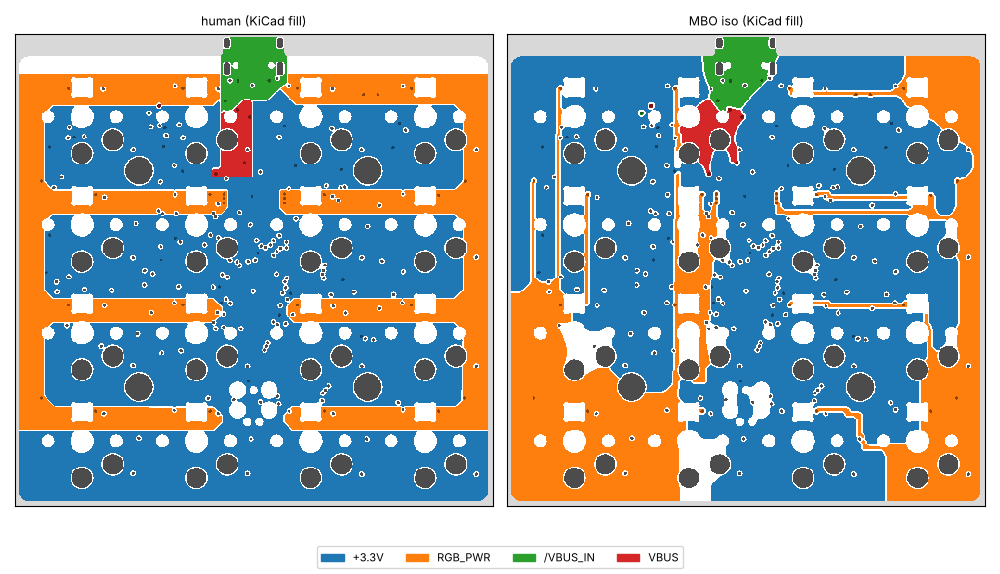
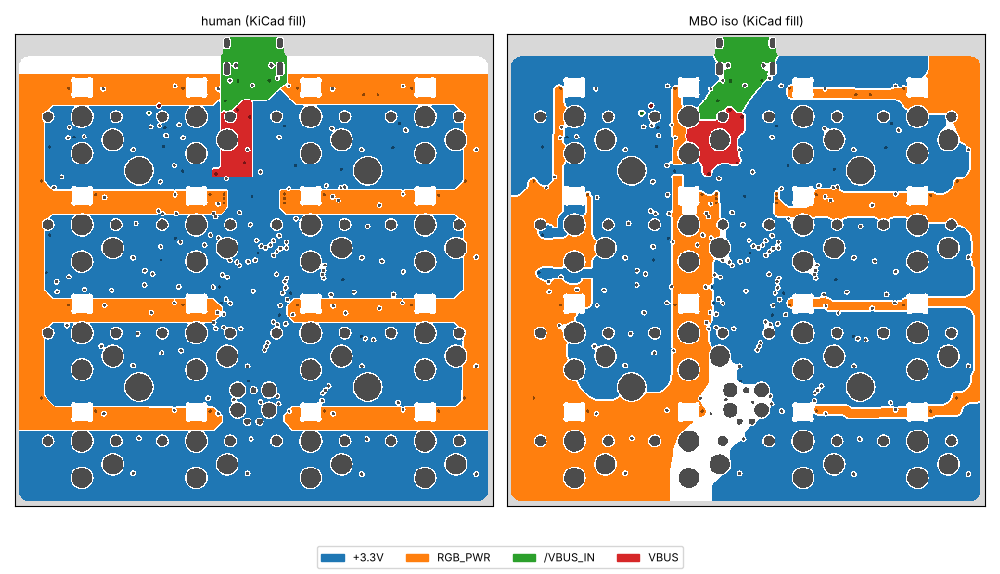
pnr: objective comparison (length+vias vs fast physics), scored three ways
seq/anneal/combo each with a length+vias objective and a fast-physics
objective, scored on DRC, fast physics and routed physics. Physics improves
both physics scores in every pipeline (combo: capped place utilization 1.34x ->
0.97x human, routed 1.26x -> 1.13x) at the same completion, length and vias.
Remaining v5 methods (tension, bloat, seq_margin) added to the tables.

Claude-Session: https://claude.ai/code/session_01PqJy6eiQwBxaorZFFSPbaL

diff --git a/tools/research/pnr/results/drc-objectives-v5.md b/tools/research/pnr/results/drc-objectives-v5.md
@@ -1,0 +1,50 @@
+boards in common: 33
+
+| run | legal | clean | completion | len (all-complete boards) | vias | mean t (s) | top DRC errors |
+|---|---|---|---|---|---|---|---|
+| pnr-seq-v5 | 0.788 | 0.545 | 0.863 | 3117 (20 boards) | 40 | 58 | {'silk_overlap': 28, 'solder_mask_bridge': 9, 'shorting_items': 6} |
+| pnr-seq_phys-v5 | 0.788 | 0.545 | 0.863 | 3152 (20 boards) | 44 | 108 | {'silk_overlap': 28, 'solder_mask_bridge': 9, 'shorting_items': 6} |
+| pnr-anneal-v5 | 0.848 | 0.576 | 0.874 | 2852 (20 boards) | 22 | 115 | {'silk_overlap': 39, 'solder_mask_bridge': 8, 'shorting_items': 5} |
+| pnr-anneal_phys-v5 | 0.818 | 0.576 | 0.876 | 2952 (20 boards) | 24 | 191 | {'silk_overlap': 37, 'starved_thermal': 6, 'solder_mask_bridge': 4} |
+| pnr-combo_lv-v5 | 0.818 | 0.545 | 0.900 | 2695 (20 boards) | 16 | 436 | {'starved_thermal': 6, 'solder_mask_bridge': 4, 'items_not_allowed': 4} |
+| pnr-combo-v5 | 0.848 | 0.636 | 0.897 | 2687 (20 boards) | 16 | 116 | {'items_not_allowed': 10, 'copper_edge_clearance': 4, 'clearance': 3} |
+| pnr-tension-v5 | 0.788 | 0.545 | 0.871 | 3008 (20 boards) | 35 | 151 | {'silk_overlap': 28, 'solder_mask_bridge': 8, 'shorting_items': 5} |
+| pnr-bloat-v5 | 0.727 | 0.576 | 0.748 | 2951 (20 boards) | 36 | 353 | {'silk_overlap': 5, 'solder_mask_bridge': 3, 'silk_over_copper': 2} |
+| pnr-seq_margin-v5 | 0.727 | 0.545 | 0.860 | 3703 (20 boards) | 43 | 41 | {'solder_mask_bridge': 8, 'starved_thermal': 4, 'shorting_items': 4} |
+
+per board: clean/completion/length
+| board | split | pnr-seq-v5 | pnr-seq_phys-v5 | pnr-anneal-v5 | pnr-anneal_phys-v5 | pnr-combo_lv-v5 | pnr-combo-v5 | pnr-tension-v5 | pnr-bloat-v5 | pnr-seq_margin-v5 |
+|---|---|---|---|---|---|---|---|---|---|---|
+| azonenberg-dumptruck-emmc-interposer | B | - 0.00 0 | - 0.00 0 | - 0.00 0 | - 0.00 0 | - 0.00 0 | - 0.00 0 | - 0.00 0 | - 0.00 0 | - 0.00 0 |
+| d3a-c-biscuit-crowbar | A | C 1.00 59 | C 1.00 59 | C 1.00 49 | C 1.00 44 | C 1.00 64 | C 1.00 62 | C 1.00 55 | C 1.00 41 | - 0.89 47 |
+| d3a-kitspace-12v5a-breakout | A | C 1.00 104 | C 1.00 104 | C 1.00 99 | C 1.00 101 | C 1.00 100 | C 1.00 99 | C 1.00 103 | C 1.00 104 | C 1.00 130 |
+| d3a-kitspace-gas-sensor | B | C 1.00 195 | C 1.00 195 | C 1.00 158 | C 1.00 160 | C 1.00 134 | C 1.00 135 | C 1.00 188 | C 1.00 159 | C 1.00 198 |
+| d3a-kitspace-hum-temp-sensor | A | C 1.00 57 | C 1.00 57 | C 1.00 50 | C 1.00 43 | C 1.00 40 | C 1.00 40 | C 1.00 51 | C 1.00 57 | C 1.00 63 |
+| d3a-kitspace-temp-breakout | A | C 1.00 127 | C 1.00 127 | C 1.00 119 | C 1.00 124 | C 1.00 110 | C 1.00 110 | C 1.00 125 | C 1.00 126 | C 1.00 155 |
+| d3a-marlin-neopixel-bridge-attiny85-marn | A | C 1.00 95 | C 1.00 95 | C 1.00 74 | C 1.00 88 | C 1.00 75 | C 1.00 74 | C 1.00 91 | C 1.00 87 | C 1.00 141 |
+| d3a-pcb-serie-led-strip | A | L 1.00 42 | L 1.00 42 | C 1.00 7 | C 1.00 6 | C 1.00 6 | C 1.00 6 | C 1.00 18 | C 1.00 4 | C 1.00 50 |
+| d3a-starsynctrackers-reset-switch | A | C 1.00 30 | C 1.00 30 | C 1.00 18 | C 1.00 20 | C 1.00 19 | C 1.00 19 | C 1.00 30 | C 1.00 30 | C 1.00 45 |
+| d3a-z2amiller-sensorboard-programmer | A | C 1.00 64 | C 1.00 64 | C 1.00 55 | C 1.00 58 | C 1.00 49 | C 1.00 49 | C 1.00 57 | C 1.00 62 | C 1.00 96 |
+| kicad-demos-ecc83-ecc83-pp-v2 | B | L 1.00 145 | L 1.00 145 | L 1.00 135 | L 1.00 143 | L 1.00 114 | L 1.00 113 | L 1.00 141 | L 1.00 131 | L 1.00 158 |
+| olimex-dcdc-50-5-12-dcdc-50-5-12-rev-a1 | B | L 1.00 159 | L 1.00 190 | C 1.00 149 | C 1.00 180 | C 1.00 153 | C 1.00 153 | C 1.00 138 | L 1.00 159 | C 1.00 249 |
+| pcbcorpus-0rax-esphome-xiao-base-pcb | B | C 1.00 190 | C 1.00 190 | L 1.00 177 | L 1.00 179 | L 1.00 175 | C 1.00 175 | L 1.00 187 | C 1.00 187 | C 1.00 191 |
+| pcbcorpus-0xjmux-esp-prog-adapter-esppro | B | C 1.00 214 | C 1.00 214 | C 1.00 210 | C 1.00 211 | C 1.00 204 | C 1.00 207 | C 1.00 214 | C 1.00 215 | C 1.00 221 |
+| pcbcorpus-badjeff-paw3222-pcb-paw3222 | A | - 0.47 9 | - 0.47 9 | - 0.47 4 | - 0.47 5 | - 1.00 50 | C 1.00 45 | - 0.47 5 | - 0.47 9 | - 0.47 9 |
+| pcbcorpus-badjeff-paw3395-pcb-paw3395 | B | - 0.68 92 | - 0.68 92 | L 0.78 86 | - 0.72 99 | L 0.85 123 | L 0.82 91 | - 0.70 103 | - 0.00 0 | - 0.62 47 |
+| pcbcorpus-badjeff-pmw3610-pcb-pmw3610-pc | B | L 0.74 145 | L 0.77 147 | L 0.80 143 | L 0.86 190 | - 0.83 195 | - 0.86 199 | L 0.80 146 | - 0.00 0 | - 0.74 132 |
+| pcbcorpus-blueokiris-ch552g-dev-board-ch | B | C 1.00 138 | C 1.00 138 | C 1.00 131 | C 1.00 135 | C 1.00 120 | C 1.00 129 | C 1.00 135 | C 1.00 132 | C 1.00 170 |
+| pcbcorpus-electron271-tuxkeychain-expans | B | L 0.64 62 | L 0.64 62 | L 0.56 73 | L 0.64 101 | L 0.64 129 | L 0.64 115 | L 0.64 86 | L 0.64 62 | L 0.64 66 |
+| pcbcorpus-funkeleinhorn-sc14cvmdect-devb | B | L 0.95 161 | L 0.95 161 | L 0.98 157 | L 0.95 157 | L 0.98 124 | L 0.98 127 | L 0.95 151 | L 0.95 161 | L 0.91 228 |
+| pcbcorpus-fyralabs-suzyqboard-suzyqboard | B | - 0.00 0 | - 0.00 0 | - 0.00 0 | - 0.00 0 | - 0.00 0 | - 0.00 0 | - 0.00 0 | - 0.00 0 | - 0.00 0 |
+| pcbcorpus-jangtrinh-design-os-3d-blender | B | C 1.00 229 | C 1.00 229 | C 1.00 223 | C 1.00 223 | C 1.00 194 | C 1.00 196 | C 1.00 222 | C 1.00 224 | C 1.00 293 |
+| pcbcorpus-justbuchanan-oasis-ledboard | A | - 0.55 4 | - 0.55 4 | - 0.64 6 | - 0.64 10 | - 0.64 5 | - 0.55 11 | - 0.64 5 | - 0.64 9 | - 0.64 16 |
+| pcbcorpus-jvedder-biploar-power-supply-k | B | C 1.00 454 | C 1.00 454 | C 1.00 436 | C 1.00 433 | C 1.00 434 | C 1.00 434 | C 1.00 442 | C 1.00 445 | C 1.00 455 |
+| pcbcorpus-kabukiflux-pi-rgb-cable-sync-m | A | - 0.75 9 | - 0.75 9 | - 0.75 6 | - 0.75 7 | - 0.88 5 | - 0.88 5 | - 0.75 8 | - 0.00 0 | - 0.75 16 |
+| pcbcorpus-lambdakb-trackball-lt6c-lt6c-p | B | L 1.00 263 | L 1.00 268 | L 1.00 239 | L 1.00 261 | L 1.00 222 | L 1.00 209 | L 1.00 259 | L 1.00 242 | L 1.00 291 |
+| pcbcorpus-pcbcupid-kicad-7-series-schema | A | C 1.00 112 | C 1.00 112 | C 1.00 104 | C 1.00 99 | C 1.00 90 | C 1.00 90 | C 1.00 112 | C 1.00 112 | C 1.00 121 |
+| pcbcorpus-pcbcupid-kicad-7-series-schema | A | C 1.00 106 | C 1.00 106 | C 1.00 97 | C 1.00 100 | C 1.00 85 | C 1.00 85 | C 1.00 104 | C 1.00 103 | C 1.00 131 |
+| pcbcorpus-siderakb-pmw3360-pcb-pmw3360-p | B | C 1.00 211 | C 1.00 211 | C 1.00 196 | C 1.00 193 | C 1.00 189 | C 1.00 194 | L 1.00 205 | - 0.00 0 | C 1.00 218 |
+| pcbcorpus-siderakb-pmw3610-pcb-pmw3610-p | B | - 0.71 127 | - 0.71 127 | L 0.90 194 | L 0.90 230 | L 0.90 222 | L 0.90 205 | - 0.79 170 | - 0.00 0 | - 0.71 152 |
+| pcbcorpus-tcsullivan-noisecard-noisecard | B | L 0.98 264 | L 0.97 257 | L 0.98 259 | L 0.98 287 | L 1.00 356 | L 1.00 323 | L 1.00 272 | C 1.00 280 | L 1.00 347 |
+| pcbcorpus-tmarhguy-alu-gate-xnor-2in | B | C 1.00 194 | C 1.00 194 | C 1.00 184 | C 1.00 194 | L 1.00 180 | C 1.00 177 | C 1.00 192 | C 1.00 184 | C 1.00 275 |
+| pcbcorpus-tmarhguy-alu-gate-xor-2in | B | C 1.00 200 | C 1.00 200 | C 1.00 188 | C 1.00 194 | C 1.00 191 | C 1.00 187 | C 1.00 198 | C 1.00 186 | L 1.00 270 |

diff --git a/tools/research/pnr/results/physics-objectives-v5.md b/tools/research/pnr/results/physics-objectives-v5.md
@@ -1,0 +1,39 @@
+| run | legal / clean / completion, physics boards | clean / completion, all boards | place scored | phys total x human (gmean) | worse / better | capped-u x human | worse / better | legal only: n, capped-u x human, worse | routed scored | routed x human | worse / better | open hops (method / human) | no open hop: n, routed x human, worse |
+|---|---|---|---|---|---|---|---|---|---|---|---|---|---|
+| pnr-seq-v5 | 7 / 3 of 10, 0.86 | 3 of 10, 0.86 | 10 | 4.05 | 7 / 2 | 1.45 | 8 / 1 | 7, 1.31, 5 | 10 | 1.39 | 7 / 3 | 1.5 / 0.1 | 3, 1.45, 2 |
+| pnr-seq_phys-v5 | 7 / 3 of 10, 0.86 | 3 of 10, 0.86 | 10 | 1.52 | 5 / 4 | 1.20 | 5 / 4 | 7, 1.02, 2 | 10 | 1.26 | 7 / 3 | 1.1 / 0.1 | 3, 1.32, 2 |
+| pnr-anneal-v5 | 9 / 4 of 10, 0.89 | 4 of 10, 0.89 | 10 | 4.28 | 7 / 2 | 1.57 | 7 / 2 | 9, 1.37, 6 | 10 | 1.54 | 6 / 4 | 1.5 / 0.1 | 5, 2.08, 4 |
+| pnr-anneal_phys-v5 | 8 / 4 of 10, 0.89 | 4 of 10, 0.89 | 10 | 1.68 | 8 / 1 | 1.29 | 7 / 2 | 8, 1.11, 5 | 10 | 1.33 | 7 / 3 | 1.2 / 0.1 | 5, 1.20, 3 |
+| pnr-combo_lv-v5 | 8 / 4 of 10, 0.96 | 4 of 10, 0.96 | 10 | 2.59 | 7 / 2 | 1.34 | 7 / 2 | 8, 1.49, 6 | 10 | 1.26 | 6 / 4 | 0.6 / 0.1 | 6, 1.75, 4 |
+| pnr-combo-v5 | 9 / 5 of 10, 0.96 | 5 of 10, 0.96 | 10 | 1.03 | 4 / 5 | 0.97 | 4 / 5 | 9, 0.98, 4 | 10 | 1.13 | 5 / 5 | 0.5 / 0.1 | 6, 1.22, 4 |
+| pnr-tension-v5 | 7 / 3 of 10, 0.88 | 3 of 10, 0.88 | 10 | 4.23 | 7 / 2 | 1.52 | 8 / 1 | 7, 1.36, 5 | 10 | 1.41 | 7 / 3 | 1.6 / 0.1 | 4, 1.27, 2 |
+| pnr-bloat-v5 | 5 / 3 of 10, 0.55 | 3 of 10, 0.55 | 6 | 12.05 | 5 / 0 | 1.88 | 5 / 0 | 5, 1.51, 4 | 6 | 1.54 | 4 / 2 | 1.0 / 0.2 | 3, 1.49, 2 |
+| pnr-seq_margin-v5 | 6 / 4 of 10, 0.85 | 4 of 10, 0.85 | 10 | 4.30 | 8 / 1 | 1.64 | 8 / 1 | 6, 1.56, 5 | 10 | 1.54 | 8 / 2 | 1.9 / 0.1 | 3, 2.22, 3 |
+| pnr-route-v5 | 10 / 4 of 10, 0.96 | 4 of 10, 0.96 | 10 | 1.00 | 0 / 0 | 1.00 | 0 / 0 | 10, 1.00, 0 | 10 | 1.09 | 3 / 7 | 1.0 / 0.1 | 5, 0.90, 0 |
+
+Per kind (capped u, method x human gmean; boards worse; share of the run's capped-u excess):
+
+| run | commutation | coupling | decap | esd | thermal | world_cm |
+|---|---|---|---|---|---|---|
+| pnr-seq-v5 | 1.25 (2/2, 3%) | 3.50 (2/2, 25%) | 1.33 (7/10, 64%) | 0.56 (0/1, 0%) | 1.39 (2/2, 3%) | 4.48 (1/2, 5%) |
+| pnr-seq_phys-v5 | 1.30 (2/2, 7%) | 1.22 (1/2, 6%) | 1.15 (5/10, 76%) | 0.38 (0/1, 0%) | 0.94 (1/2, 0%) | 4.71 (1/2, 12%) |
+| pnr-anneal-v5 | 1.36 (2/2, 4%) | 3.53 (2/2, 24%) | 1.42 (6/10, 69%) | 1.10 (1/1, 1%) | 1.29 (2/2, 2%) | 2.02 (1/2, 1%) |
+| pnr-anneal_phys-v5 | 1.42 (2/2, 7%) | 1.15 (1/2, 7%) | 1.23 (6/10, 71%) | 0.42 (0/1, 0%) | 1.10 (2/2, 1%) | 5.66 (1/2, 15%) |
+| pnr-combo_lv-v5 | 1.12 (1/2, 2%) | 2.11 (1/2, 18%) | 1.24 (6/10, 55%) | 1.90 (1/1, 11%) | 1.07 (2/2, 0%) | 5.49 (1/2, 14%) |
+| pnr-combo-v5 | 1.22 (2/2, 9%) | 1.58 (1/2, 44%) | 0.92 (4/10, 29%) | 0.44 (0/1, 0%) | 1.38 (2/2, 9%) | 7.06 (2/2, 10%) |
+| pnr-tension-v5 | 1.35 (2/2, 4%) | 3.51 (2/2, 24%) | 1.39 (7/10, 69%) | 0.56 (0/1, 0%) | 1.31 (2/2, 1%) | 2.82 (1/2, 2%) |
+| pnr-bloat-v5 | 1.27 (2/2, 4%) | 4.46 (2/2, 37%) | 1.54 (4/6, 50%) | 0.56 (0/1, 0%) | 1.39 (2/2, 3%) | 4.28 (1/2, 6%) |
+| pnr-seq_margin-v5 | 1.16 (2/2, 2%) | 0.98 (1/2, 13%) | 1.53 (7/10, 64%) | 1.39 (1/1, 4%) | 1.99 (2/2, 8%) | 5.80 (1/2, 10%) |
+| pnr-route-v5 | 1.00 (0/2, 0%) | 1.00 (0/2, 0%) | 1.00 (0/10, 0%) | 1.00 (0/1, 0%) | 1.00 (0/2, 0%) | 1.00 (0/2, 0%) |
+
+Coverage: 10 boards; human reference: {"place ok": 10, "with physics structures": 10, "routed ok": 10}.
+- pnr-seq-v5: {}
+- pnr-seq_phys-v5: {}
+- pnr-anneal-v5: {}
+- pnr-anneal_phys-v5: {}
+- pnr-combo_lv-v5: {}
+- pnr-combo-v5: {}
+- pnr-tension-v5: {}
+- pnr-bloat-v5: {"no output board (status no_output)": 4}; pcbcorpus-badjeff-paw3395-pcb-paw3395: no output board (status no_output); pcbcorpus-badjeff-pmw3610-pcb-pmw3610-pcb: no output board (status no_output); pcbcorpus-siderakb-pmw3360-pcb-pmw3360-pcb-jst: no output board (status no_output); pcbcorpus-siderakb-pmw3610-pcb-pmw3610-pcb: no output board (status no_output)
+- pnr-seq_margin-v5: {}
+- pnr-route-v5: {}

diff --git a/docs/topics/placement/joint-pnr-experiments.md b/docs/topics/placement/joint-pnr-experiments.md
@@ -25,6 +25,23 @@
   (0.13 to 0.95 over 9 physics boards). A method tuned on fast physics needs the routed
   check.
 
+### Objective comparison (v5, all 33 boards, one seed)
+
+Physics is the ratio to the human board on the 10 boards with physics structures. Length is summed over the 20 boards every run completed.
+
+| Pipeline | Objective | Legal | Clean | Completion | Length (mm) | Vias | Fast physics (capped u) | Routed physics |
+|---|---|---|---|---|---|---|---|---|
+| seq | length + vias | 0.788 | 0.545 | 0.863 | 3117 | 40 | 1.45 | 1.39 |
+| seq_phys | fast physics | 0.788 | 0.545 | 0.863 | 3152 | 44 | 1.20 | 1.26 |
+| anneal | length + vias | 0.848 | 0.576 | 0.874 | 2852 | 22 | 1.57 | 1.54 |
+| anneal_phys | fast physics | 0.818 | 0.576 | 0.876 | 2952 | 24 | 1.29 | 1.33 |
+| combo_lv | length + vias | 0.818 | 0.545 | 0.900 | 2695 | 16 | 1.34 | 1.26 |
+| combo | fast physics | 0.848 | 0.636 | 0.897 | 2687 | 16 | **0.97** | **1.13** |
+| combo_full | fast physics + full physics at gates | running | | | | | | |
+| human placement, same router | — | — | 0.636 | — | — | — | 1.00 | 1.09 |
+
+In every pipeline, switching from length + vias to fast physics improves both fast and routed physics. Completion, length and vias stay the same within noise. The physics objective costs essentially nothing in routability, so it should be on by default.
+
 ## Setup
 
 | Item | Value |
